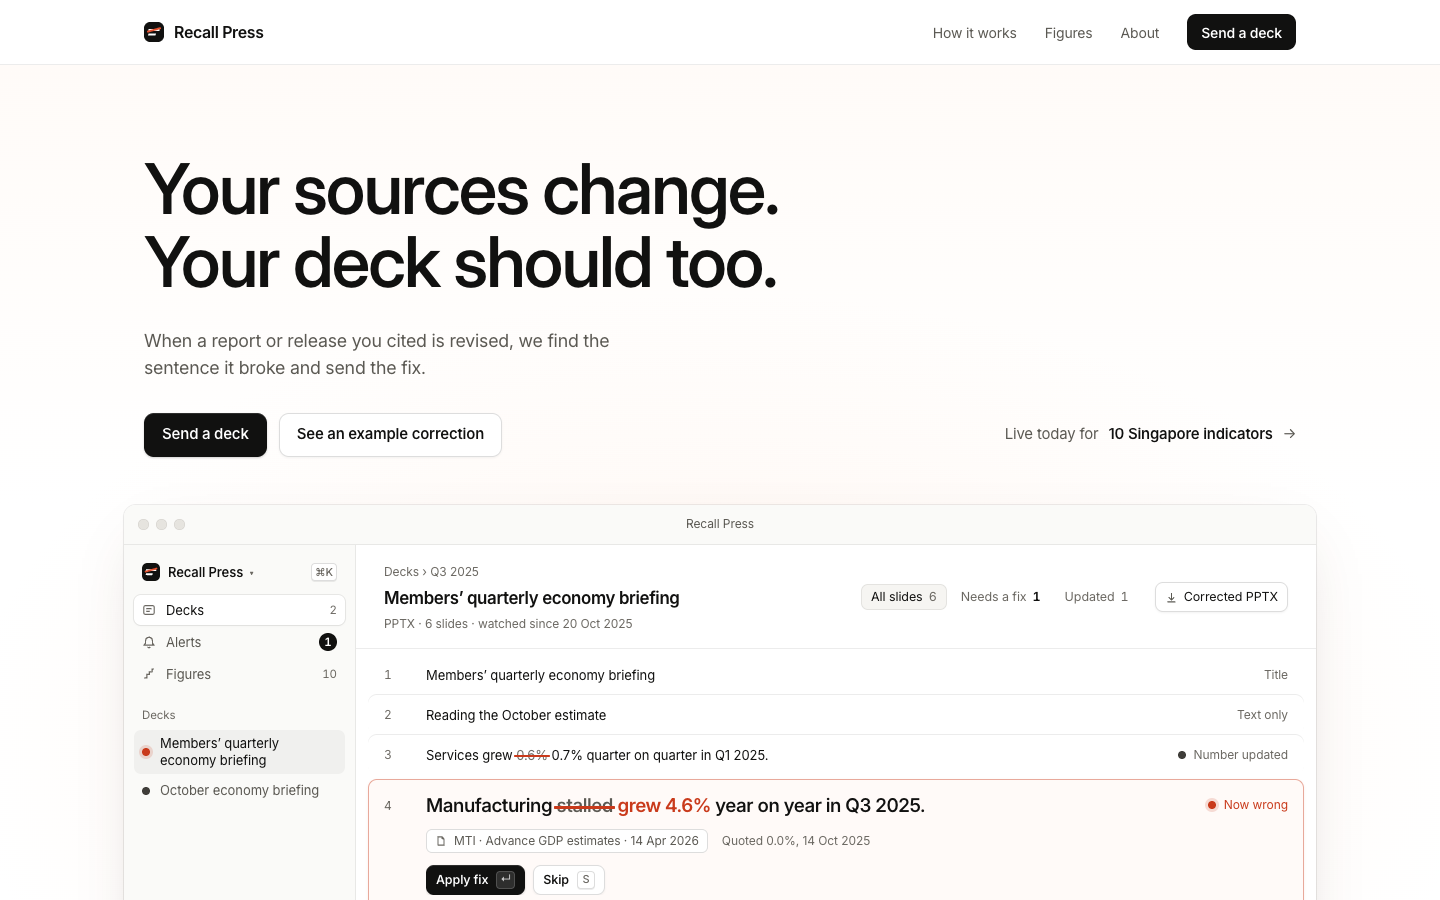
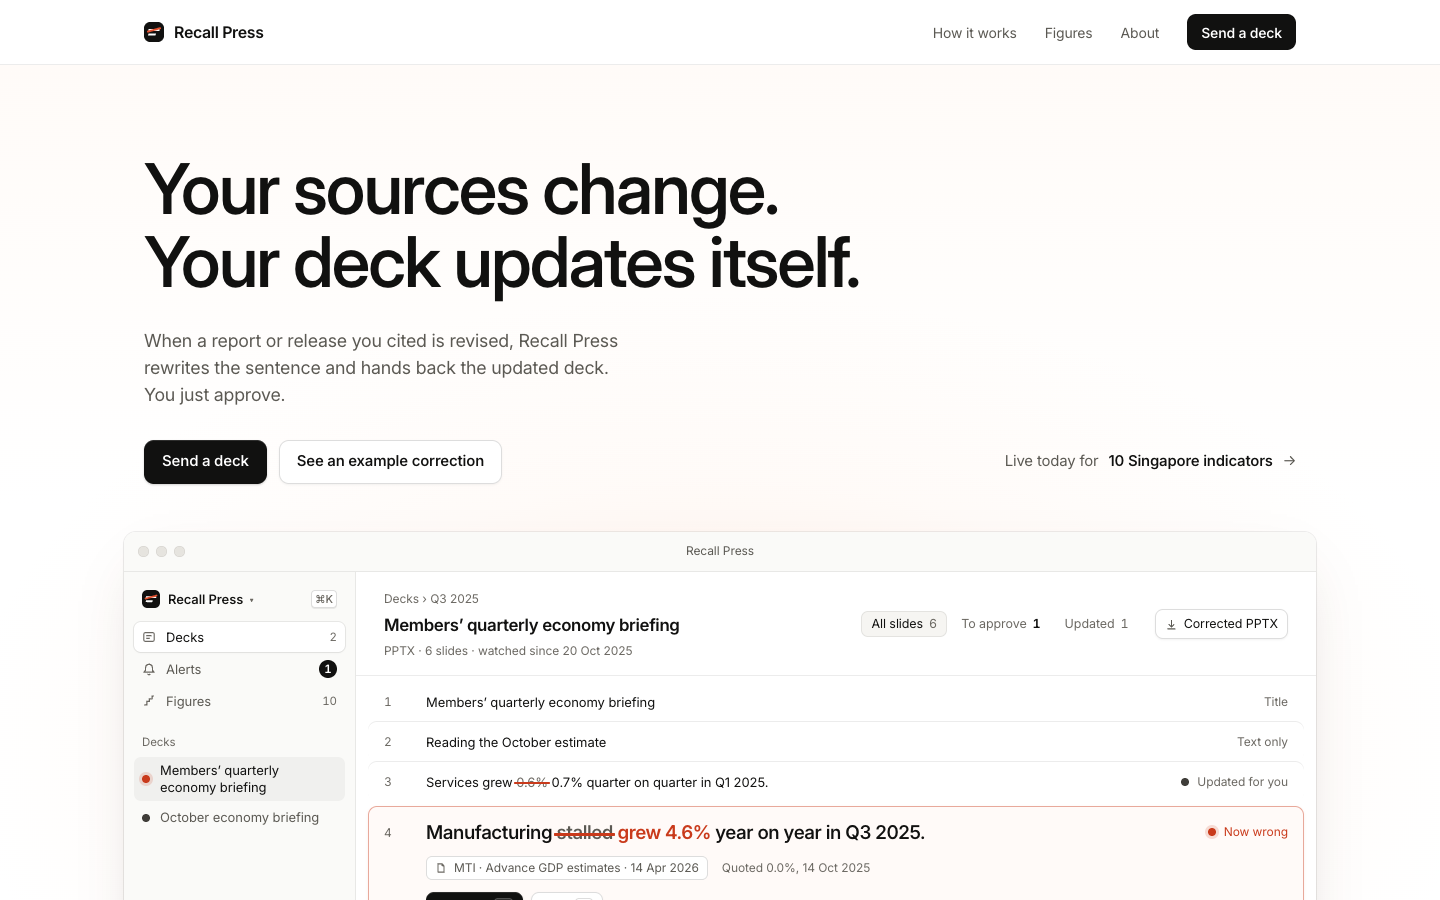
feat(site): automation copy, "Your deck updates itself", live on Hashmeta
Update the headline and copy across Home, How it works, Send a deck, About, Figures, and the figure and indicator closers to say the deck updates itself and the editor only approves. Align the README and submission one-liner. Republished and verified 77 pages and tested the live form in a browser.

diff --git a/site/v2/src/home-01-hero.html b/site/v2/src/home-01-hero.html
@@ -113,12 +113,12 @@ __TOKENS(.rp2-hero)__
 </style>
 <section class="rp2-hero" aria-labelledby="rp2-hero-h">
   <div class="wrap top">
-    <h1 class="h1" id="rp2-hero-h">Your sources change. <br>Your deck should too.</h1>
+    <h1 class="h1" id="rp2-hero-h">Your sources change. <br>Your deck updates itself.</h1>
     <div>
-      <p class="sub">When a report or release you cited is revised, we find the sentence it broke and send the fix.</p>
+      <p class="sub">When a report or release you cited is revised, Recall Press rewrites the sentence and hands back the updated deck. You just approve.</p>
       <div class="act">
         <a class="b1" href="/cover-my-briefing/">Send a deck</a>
-        <a class="b2" href="https://ka62nv48.qwenwork.page/" rel="noopener">See an example correction</a>
+        <a class="b2" href="https://ka62nv48.qwenwork.page/" rel="noopener">See an updated deck</a>
       </div>
     </div>
     <a class="proof" href="/indicators/">Live today for <b>10 Singapore indicators</b></a>
@@ -144,18 +144,18 @@ __TOKENS(.rp2-hero)__
               <p class="dn">Members’ quarterly economy briefing</p>
               <p class="dm">PPTX · 6 slides · watched since 20 Oct 2025</p>
             </div>
-            <div class="hr"><div class="tabs"><span class="on">All slides <i>6</i></span><span>Needs a fix <i class="a">1</i></span><span>Updated <i>1</i></span></div><span class="dl"><svg width="13" height="13" viewBox="0 0 16 16" fill="none" stroke="currentColor" stroke-width="1.5"><path d="M8 2.5v8M4.5 7.5 8 11l3.5-3.5M3 13.5h10"/></svg><span class="t">Corrected PPTX</span></span></div>
+            <div class="hr"><div class="tabs"><span class="on">All slides <i>6</i></span><span>To approve <i class="a">1</i></span><span>Updated <i>1</i></span></div><span class="dl"><svg width="13" height="13" viewBox="0 0 16 16" fill="none" stroke="currentColor" stroke-width="1.5"><path d="M8 2.5v8M4.5 7.5 8 11l3.5-3.5M3 13.5h10"/></svg><span class="t">Updated PPTX</span></span></div>
           </div>
           <ol class="rows">
             <li class="skip"><span class="no">1</span><span class="tx">Members’ quarterly economy briefing</span><span class="st">Title</span></li>
             <li class="skip"><span class="no">2</span><span class="tx">Reading the October estimate</span><span class="st">Text only</span></li>
-            <li><span class="no">3</span><span class="tx">Services grew <span class="sx">0.6%</span> 0.7% quarter on quarter in Q1 2025.</span><span class="st"><span class="sd ok"></span>Number updated</span></li>
+            <li><span class="no">3</span><span class="tx">Services grew <span class="sx">0.6%</span> 0.7% quarter on quarter in Q1 2025.</span><span class="st"><span class="sd ok"></span>Updated for you</span></li>
             <li class="flag">
               <span class="no">4</span>
               <div class="tx">
                 <p class="say">Manufacturing <span class="sx">stalled</span> <span class="nw">grew 4.6%</span> year on year in Q3&nbsp;2025.</p>
                 <p class="src"><span class="chip"><svg width="12" height="12" viewBox="0 0 16 16" fill="none" stroke="currentColor" stroke-width="1.5"><path d="M4 2.5h5.5L12 5v8.5H4z"/><path d="M9.5 2.5V5H12"/></svg>MTI · Advance GDP estimates · 14 Apr 2026</span><span>Quoted 0.0%, 14 Oct 2025</span></p>
-                <p class="acts"><span class="b1">Apply fix <span class="kbd">↵</span></span><span class="b2">Skip <span class="kbd">S</span></span></p>
+                <p class="acts"><span class="b1">Approve <span class="kbd">↵</span></span><span class="b2">Skip <span class="kbd">S</span></span></p>
               </div>
               <span class="st bad"><span class="sd bad"></span>Now wrong</span>
             </li>

diff --git a/site/v2/src/home-02-run.html b/site/v2/src/home-02-run.html
@@ -50,11 +50,11 @@ __TOKENS(.rp2-run)__
 </style>
 <section class="rp2-run band" id="run" aria-labelledby="rp2-run-h">
   <div class="wrap split">
-    <h2 class="h2" id="rp2-run-h">Rechecked the day a source changes.</h2>
-    <p class="sd2">We link each sentence to the release it cites, then check it again on every new release.</p>
+    <h2 class="h2" id="rp2-run-h">Runs on its own, every release.</h2>
+    <p class="sd2">No re-uploads, no reminders. Each new release rechecks every sentence and rewrites the ones it breaks.</p>
   </div>
   <div class="wrap">
-    <div class="win log" role="img" aria-label="Example: the members' briefing, watched from 20 Oct 2025. Each new GDP release rechecks it. On 21 Nov 2025 the Economic Survey made slide 4 wrong; later releases updated slides 3 and 4; on 14 Apr 2026 the advance estimates set manufacturing at 4.6% and a corrected PPTX was ready.">
+    <div class="win log" role="img" aria-label="Example: the members' briefing, watched from 20 Oct 2025. Each new GDP release rechecks it. On 21 Nov 2025 the Economic Survey made slide 4 wrong; later releases updated slides 3 and 4; on 14 Apr 2026 the advance estimates set manufacturing at 4.6% and an updated PPTX was ready.">
       <div class="bar tab" aria-hidden="true"><span class="ttl">Recall Press agent</span><span class="r qw">runs on QwenWork</span></div>
       <div aria-hidden="true">
         <div class="lh">
@@ -66,7 +66,7 @@ __TOKENS(.rp2-run)__
           <li style="--i:2"><time>2 Jan 2026</time><span class="sd ok"></span><span class="t"><b>Slide 4 · number changed</b><span><span class="sx">5.0%</span> → 4.9%</span><span class="rl">Advance estimate, Q4 2025</span></span></li>
           <li style="--i:3"><time>10 Feb 2026</time><span class="sd ok"></span><span class="t"><b>Slides 3 and 4 · numbers changed</b><span><span class="sx">0.6%</span> → 0.7% · <span class="sx">4.9%</span> → 5.3%</span><span class="rl">Economic Survey, Q4 2025</span></span></li>
           <li style="--i:4"><time>14 Apr 2026</time><span class="sd ok"></span><span class="t"><b>Slide 4 · number changed</b><span><span class="sx">5.3%</span> → <span class="nv">4.6%</span></span><span class="rl">Advance estimate, Q1 2026</span></span></li>
-          <li style="--i:5"><time>14 Apr 2026</time><span class="sd ok"></span><span class="t"><b>Corrected PPTX ready</b><span class="file">members-briefing-2025q3.pptx</span></span></li>
+          <li style="--i:5"><time>14 Apr 2026</time><span class="sd ok"></span><span class="t"><b>Updated deck ready</b><span class="file">members-briefing-2025q3.pptx</span></span></li>
           <li class="q" style="--i:6"><time>May–Oct 2026</time><span class="sd off"></span><span class="t"><b>4 later releases · still current</b></span></li>
         </ol>
       </div>

diff --git a/site/v2/src/cover-my-briefing.html b/site/v2/src/cover-my-briefing.html
@@ -30,10 +30,10 @@ __TOKENS(.rp2-cover)__
 <section class="rp2-cover">
   <div class="in">
     <div class="cp">
-      <h1>Send one deck.<br> We watch every source in&nbsp;it.</h1>
+      <h1>Send a deck once.<br> It keeps itself&nbsp;current.</h1>
       <dl>
         <div><dt>You send</dt><dd>A link to a deck or briefing, PPTX or PDF.</dd></div>
-        <div><dt>You get</dt><dd><span>The sentence that broke</span><span>The new figure and its dated release</span><span>A corrected PPTX</span></dd></div>
+        <div><dt>You get</dt><dd><span>The sentence, rewritten</span><span>The new figure and its dated release</span><span>The updated PPTX, ready to approve</span></dd></div>
         <div><dt>Pilot</dt><dd>No fee. Results within two working days.</dd></div>
       </dl>
       <div class="win eg" role="img" aria-label="Example of what you get back: slide 4 corrected from stalled to grew 4.6%, with the MTI source dated 14 Apr 2026.">
@@ -41,7 +41,7 @@ __TOKENS(.rp2-cover)__
         <div class="eb" aria-hidden="true">
           <p class="say">Manufacturing <span class="sx">stalled</span> <span class="nw">grew 4.6%</span> year on year in Q3&nbsp;2025.</p>
           <p class="src">MTI · Advance GDP estimates · 14 Apr 2026</p>
-          <p class="fl"><span class="sd ok"></span>members-briefing-2025q3.pptx · corrected</p>
+          <p class="fl"><span class="sd ok"></span>members-briefing-2025q3.pptx · updated</p>
         </div>
       </div>
     </div>

diff --git a/site/v2/src/indicator-template.html b/site/v2/src/indicator-template.html
@@ -26,7 +26,7 @@ __TOKENS(.rp2-ind)__
     <p class="scale">__SCALE__</p>
     <div class="six">__CARDS__</div>
     <div class="end">
-      <div><h2 class="h2">Quoted one of these&nbsp;six?</h2><p class="sub">Send the deck. We tell you when any of them changes.</p></div>
+      <div><h2 class="h2">Quoted one of these&nbsp;six?</h2><p class="sub">Send the deck. It updates itself when any of them change.</p></div>
       <a class="b1" href="/cover-my-briefing/">Send a deck</a>
     </div>
   </div>

diff --git a/site/v2/src/home-05-end.html b/site/v2/src/home-05-end.html
@@ -8,7 +8,7 @@ __TOKENS(.rp2-end)__
   <div class="wrap">
     <div class="end">
       <div>
-        <h2 class="h2" id="rp2-end-h">Send one deck.<br> We watch every source in&nbsp;it.</h2>
+        <h2 class="h2" id="rp2-end-h">Send a deck once.<br> It keeps itself&nbsp;current.</h2>
         <p class="sub">Pilot: no fee, results within two working days.</p>
       </div>
       <a class="b1" href="/cover-my-briefing/">Send a deck</a>

diff --git a/site/v2/src/figure-template.html b/site/v2/src/figure-template.html
@@ -53,7 +53,7 @@ __TOKENS(.rp2-fig)__
     <h1>{{title}}</h1>
     {{body_html}}
     <div class="end">
-      <div><h2 class="h2">Quoted this figure?</h2><p class="sub">Send the deck. We tell you when it changes.</p></div>
+      <div><h2 class="h2">Quoted this figure?</h2><p class="sub">Send the deck. It updates itself when this changes.</p></div>
       <a class="b1" href="/cover-my-briefing/">Send a deck</a>
     </div>
   </div>

diff --git a/site/v2/port/build_more.py b/site/v2/port/build_more.py
@@ -215,7 +215,7 @@ def end(h2, sub="Pilot: no fee, results within two working days."):
             '<a class="b1" href="/cover-my-briefing/">Send a deck</a></div>')
 
 
-END = end("Send one deck.<br> We watch every source in&nbsp;it.")
+END = end("Send a deck once.<br> It keeps itself&nbsp;current.")
 
 
 def cell(e):
@@ -245,7 +245,7 @@ def page_figures(entries, by):
     html_ = (f'<section class="rp2-pg figs"><div class="in"><h1>{e_(head)}</h1>'
              f'<p class="lede">Ten Singapore indicators, six quarters each. Pick one to see every release.</p>{KEY}'
              f'<p class="qh" aria-hidden="true"><span></span><span class="cs">{qh}</span><span></span><span></span></p><ol class="ledger">{"".join(rows)}</ol>'
-             f'<a class="b3 more" href="/revisions/">All {len(entries)} figures as a list</a>{end("Cited any of these&nbsp;60?", "Send the deck. We check each figure in it against every new release.")}</div></section>')
+             f'<a class="b3 more" href="/revisions/">All {len(entries)} figures as a list</a>{end("Cited any of these&nbsp;60?", "Send the deck. It updates itself when any of them change.")}</div></section>')
     meta = {"title": "Figures: how often Singapore's economic numbers are revised",
             "description": f"{head} Ten Singapore indicators (GDP by sector, jobs, unemployment), six quarters each, "
                            "first estimate against the latest release."}
@@ -278,7 +278,7 @@ def page_all(entries, by):
     html_ = (f'<section class="rp2-pg all"><div class="in"><h1>{e_(head)}</h1>'
              f'<p class="lede"><b class="num">{n_ch}</b> still differ from their first estimate. First estimate → now, newest quarter first.</p>'
              f'{key}<div class="groups">{"".join(groups)}</div>'
-             f'{end("Found one you quoted?", "Send the deck. We tell you the next time it changes.")}</div></section>')
+             f'{end("Found one you quoted?", "Send the deck. It updates itself next time.")}</div></section>')
     meta = {"title": "All 60 figures: first estimate and now",
             "description": f"{head} {n_ch} still differ from their first estimate. Every Singapore GDP, jobs and "
                            "unemployment figure Recall Press follows, first estimate against the latest release."}
@@ -304,14 +304,14 @@ def page_how(entries, by):
     h = next(e for e in entries if e["slug"] == HERO)
     chart = (B.round_svg(R.step_svg(h, 560, 210, 13, "wide", step_labels=True, tips=False))
              + B.round_svg(R.step_svg(h, 358, 220, 13, "narrow", step_labels=True, tips=False)))
-    head = "We watch the sources your deck cites."
+    head = "Your deck keeps itself current."
     f1 = win("Send a deck",
              '<div class="file"><span class="ic">PPTX</span><span><b>members-briefing-2025q3.pptx</b>'
              '<span>6 slides · received 20 Oct 2025</span></span><span class="st"><span class="sd ok"></span>Watching</span></div>'
              '<div class="slides">' + "".join(
                  f'<i{" class=bad" if n == 4 else " class=on" if n == 3 else ""}><em>{t}</em>{"<b>" + v + "</b>" if v else ""}<span>{n}</span></i>'
                  for n, (t, v) in enumerate(SLIDES, 1)) + '</div>',
-             "A deck received on 20 Oct 2025: members-briefing-2025q3.pptx, 6 slides, now watched.")
+             "A deck received on 20 Oct 2025: members-briefing-2025q3.pptx, 6 slides, now kept current.")
     f2 = ('<div class="panel" role="img" aria-label="Slide 3 and slide 4 are linked to the figures they quote, as published on 14 Oct 2025; slide 5 has no matching figure.">'
           '<div class="fb" aria-hidden="true"><ul class="map">'
           '<li><span class="s"><small>Slide 3</small>Services grew 0.6% quarter on quarter in Q1 2025.</span><span class="a">→</span>'
@@ -326,35 +326,35 @@ def page_how(entries, by):
              '<li><span>Slide 3</span><span class="mv"><s>0.6%</s> → 0.7%<em>still growing</em></span><span class="out">Number only</span></li></ul>',
              "Manufacturing Q3 2025 went from 0.0% to 4.6%: it no longer stalled, it grew, so the words on slide 4 change. "
              "Services went from 0.6% to 0.7%, still growing, so only slide 3's number changes.")
-    f4 = win("Slide 4 · fix ready",
+    f4 = win("Slide 4 · rewritten",
              '<p class="say">Manufacturing <s>stalled</s> <span class="nw">grew 4.6%</span> year on year in Q3&nbsp;2025.</p>'
              '<p class="src">MTI · Advance GDP estimates · 14 Apr 2026</p>'
-             '<p class="acts"><span class="b1">Apply fix <span class="kbd">↵</span></span><span class="b2">Skip <span class="kbd">S</span></span></p>'
+             '<p class="acts"><span class="b1">Approve <span class="kbd">↵</span></span><span class="b2">Skip <span class="kbd">S</span></span></p>'
              '<div class="vd"><div class="file" style="grid-template-columns:40px minmax(0,1fr)"><span class="ic">PPTX</span><span>'
-             '<b>members-briefing-2025q3.pptx</b><span>corrected copy · slide 4 updated</span></span></div></div>',
-             "The corrected sentence: Manufacturing grew 4.6% year on year in Q3 2025, source MTI, 14 Apr 2026, with a corrected PPTX.")
+             '<b>members-briefing-2025q3.pptx</b><span>updated copy · slide 4 rewritten</span></span></div></div>',
+             "The rewritten sentence: Manufacturing grew 4.6% year on year in Q3 2025, source MTI, 14 Apr 2026, with the updated PPTX.")
     feats = [
-        ("Send a deck once.", "PPTX or PDF. We keep watching it, with no\u00a0re-upload.", f1),
-        ("Each sentence is linked to its source.", "The figure it quotes, its quarter and the release it came from.", f2),
-        ("A revised source flags the sentence it breaks.",
-         "If the change breaks the words, you get a new sentence. If not, just the new number.", f3),
-        ("You get the fix, its source and a corrected PPTX.",
-         "Apply or skip, slide by slide. The rest of the deck stays as it was.", f4),
+        ("Send a deck once.", "PPTX or PDF. No re-uploads, no reminders to\u00a0set.", f1),
+        ("Every sentence is linked to its source.", "The figure it quotes, its quarter and the release it came from.", f2),
+        ("Checked the day a release lands.",
+         "If it breaks the words, the sentence is rewritten. If not, only the number\u00a0changes.", f3),
+        ("You approve. The deck updates.",
+         "One click per slide. The rest of the deck stays as it\u00a0was.", f4),
     ]
     rows = "".join(f'<li class="feat"><div><h2>{e_(t)}</h2><p class="fs">{e_(s)}</p></div>{w}</li>' for t, s, w in feats)
     html_ = (
         f'<section class="rp2-pg how"><div class="in"><h1>{head}</h1>'
-        f'<p class="lede">One sample briefing, from upload to the corrected slide.</p>'
+        f'<p class="lede">One sample briefing, from upload to the updated slide. Your only step is the last one.</p>'
         f'<ol class="feats">{rows}</ol>'
         f'{end("Try it on your next&nbsp;deck.")}</div></section>')
-    meta = {"title": "How Recall Press works: we watch the sources your deck cites",
-            "description": "Send a deck once. Recall Press links each sentence to the source it cites, flags the "
-                           "sentence a revision breaks and returns the fix with its dated source and a corrected PPTX."}
+    meta = {"title": "How Recall Press works: your deck keeps itself current",
+            "description": "Send a deck once. Recall Press links each sentence to the source it cites, rewrites the "
+                           "sentence a revision breaks and hands back the updated PPTX for you to approve."}
     return html_, meta, head
 
 
 def page_about():
-    head = "Recall Press watches the sources your decks cite."
+    head = "Recall Press keeps your decks current on its own."
     facts = [("Who", "Independent, based in Singapore."),
              ("For", "Anyone who quotes official figures, reports or releases in decks and briefings."),
              ("Examples", "Figures and sources are public. The example deck is a sample."),
@@ -363,8 +363,8 @@ def page_about():
              f'<ul class="facts">' + "".join(f"<li><span>{a}</span><p style=\"margin:0\">{b}</p></li>" for a, b in facts) +
              f'</ul>{end("Start with one&nbsp;deck.")}</div></section>')
     meta = {"title": "About Recall Press",
-            "description": "Recall Press watches the sources your decks and briefings cite and sends the fix when one "
-                           "is revised. Independent, based in Singapore."}
+            "description": "Recall Press keeps your decks and briefings current: when a source they cite "
+                           "is revised, it rewrites the sentence for you to approve. Independent, based in Singapore."}
     return html_, meta, head
 
 

diff --git a/site/v2/port/compose_payloads.py b/site/v2/port/compose_payloads.py
@@ -25,7 +25,11 @@ def main():
             ]
             d = {"pageId": p["pageId"], "slug": p["slug"], "layout": layout, "meta": meta["meta"]}
         elif k == "home":
-            d = {"pageId": 1, "slug": "home", "layout": json.loads((HERE / "home.json").read_text())}
+            d = {"pageId": 1, "slug": "home", "layout": json.loads((HERE / "home.json").read_text()),
+                 "meta": {"title": "Recall Press · Your sources change. Your deck updates itself.",
+                          "description": "When a report or release you cited is revised, Recall Press rewrites "
+                                         "the sentence and hands back the updated deck with its dated source. "
+                                         "You just approve. Live for 10 Singapore indicators."}}
         elif k == "cover":
             d = {"pageId": 3, "slug": "cover-my-briefing",
                  "layout": json.loads((HERE / "cover.json").read_text()), "meta": p["meta"]}

diff --git a/site/v2/render_v2.py b/site/v2/render_v2.py
@@ -516,9 +516,9 @@ def build():
 
     home = "\n".join(blocks[k] for k in sorted(blocks) if k.startswith("home-"))
     (HERE / "preview" / "index.html").write_text(page(
-        "Recall Press · Your sources change. Your deck should too.",
-        "When a report or release your deck cites is revised, Recall Press finds the sentence it broke and sends "
-        "the fix. Live today for 10 Singapore indicators.", home))
+        "Recall Press · Your sources change. Your deck updates itself.",
+        "When a report or release your deck cites is revised, Recall Press rewrites the sentence and hands "
+        "back the updated deck. Live today for 10 Singapore indicators.", home))
 
     tpl = blocks["figure-template"]
     fields = {

diff --git a/site/v2/port/build_port.py b/site/v2/port/build_port.py
@@ -352,7 +352,7 @@ def build():
                      "bytes": bytes_(cover_layout[0]["html"]), "kept_block_ids": [FORM_BLOCK_ID],
                      "dropped_block_ids": [b["id"] for b in live3["layout"] if b["id"] != FORM_BLOCK_ID],
                      "meta": {"title": "Cover my briefing",
-                              "description": "Send one deck and Recall Press watches every source it cites. "
+                              "description": "Send a deck once and it keeps itself current as its sources change. "
                                              "Pilot: no fee, results within two working days."}})
 
     for k, f in [("header", "header.html"), ("footer", "footer.html"), ("global_css_appended", "global.css")]:

diff --git a/site/v2/port/verify_live.py b/site/v2/port/verify_live.py
@@ -8,7 +8,7 @@ def text(h):
     h=re.sub(r'<(script|style)[^>]*>.*?</\1>','',h,flags=re.S)
     return re.sub(r'\s+',' ',html.unescape(re.sub(r'<[^>]+>',' ',h))).strip()
 for i in range(30):
-    if 'Your sources change' in get(SITE+"/"): break
+    if 'Your deck updates itself' in get(SITE+"/"): break
     time.sleep(10)
 bad=[]; ok=0
 for f in sorted(Path('payload3').glob('*.json')):

diff --git a/docs/HASHMETA-LOG.md b/docs/HASHMETA-LOG.md
@@ -84,3 +84,17 @@ The owner found v2 bland and Singapore-specific. v3 turns the site into a produc
   - Terms and privacy page meta, so they re-bake the chrome.
 - **Released:** one `publish_changes` release (82 items). 0 Hashmeta credits.
 - **Verified:** `port/verify_live.py` reports 77 of 77 pages matching. Live screenshots at 1440 and 390 show no horizontal scroll.
+
+## 22 Nov 2026 · Automation copy (live)
+
+- **Headline:** "Your sources change. Your deck updates itself." Subline: Recall Press rewrites the sentence and hands back the updated deck; the editor only approves.
+- **Copy across the site:**
+  - Hero mock: "To approve", "Updated for you", Approve button, "Updated PPTX".
+  - Run band: "Runs on its own, every release."
+  - Closing band and Send a deck page: "Send a deck once. It keeps itself current."
+  - How it works: "Your deck keeps itself current." Steps end on "You approve. The deck updates."
+  - About, Figures, All figures, figure and indicator closers say the deck updates itself.
+- **Released:** one `publish_changes` release of 77 pages. 0 Hashmeta credits.
+- **Verified:**
+  - `port/verify_live.py` reports 77 of 77 pages matching.
+  - A browser submission of the live Send a deck form was stored as submission 2 (labelled TEST, example.com address) and showed the thank-you message.
